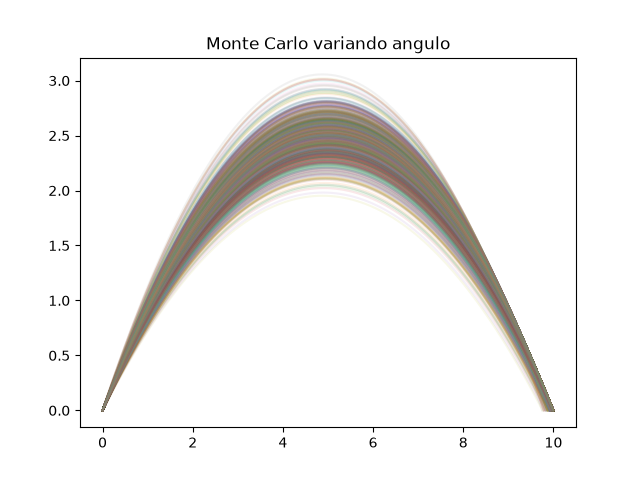
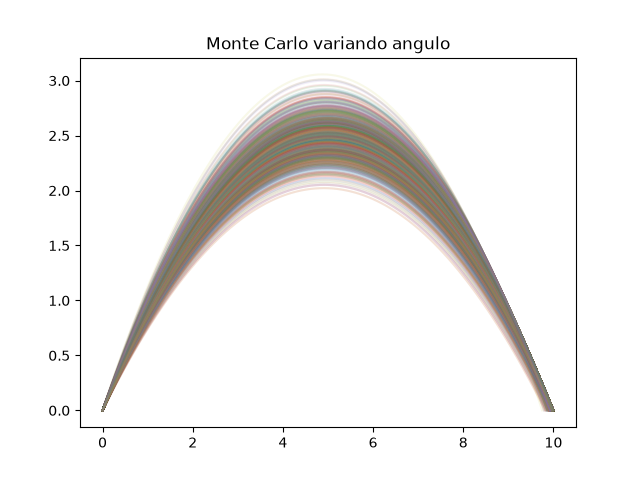
feat(pyday): muestra el scatter de parámetro vs alcance en las slides
La sección de Monte Carlo queda en cuatro subslides de código (simular, trayectorias, dispersión, distribución) seguidas de sus tres subslides de resultados. La nueva subslide de dispersión muestra las nubes lado a lado con la correlación de cada experimento: la de velocidad sube con pendiente, la de angulo es plana. Las cifras se actualizan a la corrida regenerada.

Changed: slides.md y las seis imágenes de Monte Carlo.
Verified: vallas balanceadas; bloques verbatim contra los scripts; imágenes PNG válidas.
Review: diff completo.
Risks: ninguna conocida; falta pasada visual final.

Changed region(s): [[0.1875, 0.1562, 0.8438, 0.8125]]

diff --git a/presentaciones/pyday_la_plata_2026/slides.md b/presentaciones/pyday_la_plata_2026/slides.md
@@ -359,29 +359,48 @@ from pathlib import Path
 from tiro_parabolico import simular
 
 random.seed(42)  # experimento reproducible
-experimentos = {
-    "velocidad": [
-        simular(velocidad=random.gauss(10, 0.5), angulo=45)
-        for _ in range(1000)
-    ],
-    "angulo": [
-        simular(velocidad=10, angulo=random.gauss(45, 2))
-        for _ in range(1000)
-    ],
-}
+experimentos = {"velocidad": [], "angulo": []}
+for _ in range(1000):
+    velocidad = random.gauss(10, 0.5)
+    angulo = random.gauss(45, 2)
+    experimentos["velocidad"].append({
+        "entrada": {"velocidad": velocidad, "angulo": 45},
+        "salida": simular(velocidad=velocidad, angulo=45),
+    })
+    experimentos["angulo"].append({
+        "entrada": {"velocidad": 10, "angulo": angulo},
+        "salida": simular(velocidad=10, angulo=angulo),
+    })
 Path("montecarlo.json").write_text(json.dumps(experimentos), encoding="utf-8")
 ```
+
+--
 
 ```py
 experimentos = json.loads(Path("montecarlo.json").read_text(encoding="utf-8"))
 for nombre, lanzamientos in experimentos.items():
     for lanzamiento in lanzamientos:
-        plt.plot(lanzamiento["x"], lanzamiento["y"], alpha=0.1)
+        plt.plot(lanzamiento["salida"]["x"], lanzamiento["salida"]["y"], alpha=0.1)
     plt.title(f"Monte Carlo variando {nombre}")
     plt.savefig(f"montecarlo-{nombre}.png")
     plt.close()
 ```
-<!-- .element: class="fragment" -->
+
+--
+
+```py
+experimentos = json.loads(Path("montecarlo.json").read_text(encoding="utf-8"))
+for nombre, lanzamientos in experimentos.items():
+    plt.scatter(
+        [lanzamiento["entrada"][nombre] for lanzamiento in lanzamientos],
+        [lanzamiento["salida"]["alcance"] for lanzamiento in lanzamientos],
+        alpha=0.1,
+    )
+    plt.xlabel(nombre)
+    plt.ylabel("Distancia final [m]")
+    plt.savefig(f"montecarlo-{nombre}-dispersion.png")
+    plt.close()
+```
 
 --
 
@@ -389,7 +408,7 @@ for nombre, lanzamientos in experimentos.items():
 # paso extra sobre los datos guardados: distribución del alcance final
 experimentos = json.loads(Path("montecarlo.json").read_text(encoding="utf-8"))
 for nombre, lanzamientos in experimentos.items():
-    alcances = [lanzamiento["alcance"] for lanzamiento in lanzamientos]
+    alcances = [lanzamiento["salida"]["alcance"] for lanzamiento in lanzamientos]
     plt.hist(alcances, bins=50)
     plt.axvline(mean(alcances), color="black")
     plt.savefig(f"montecarlo-{nombre}-distribucion.png")
@@ -403,9 +422,20 @@ for nombre, lanzamientos in experimentos.items():
 <img src="./images/montecarlo-angulo.png" style="width: 100%; height: auto;">
 </div>
 
-<p class="fragment" style="font-size: 0.7em;">velocidad: 8.39 a 11.82 m — angulo: 9.91 a 10.00 m</p>
+<p class="fragment" style="font-size: 0.7em;">velocidad: 8.39 a 11.76 m — angulo: 9.90 a 10.00 m</p>
 
 <p class="fragment" style="font-size: 0.7em;">cerca de 45 grados, controlar la velocidad importa mucho más que el angulo</p>
+
+--
+
+<div style="display: grid; grid-template-columns: 1fr 1fr; gap: 1.5rem; align-items: center;">
+<img src="./images/montecarlo-velocidad-dispersion.png" style="width: 100%; height: auto;">
+<img src="./images/montecarlo-angulo-dispersion.png" style="width: 100%; height: auto;">
+</div>
+
+<p class="fragment" style="font-size: 0.7em;">correlación: +1.00 variando velocidad, -0.05 variando angulo</p>
+
+<p class="fragment" style="font-size: 0.7em;">el scatter muestra el efecto: la nube de velocidad sube, la de angulo es plana</p>
 
 --
 
